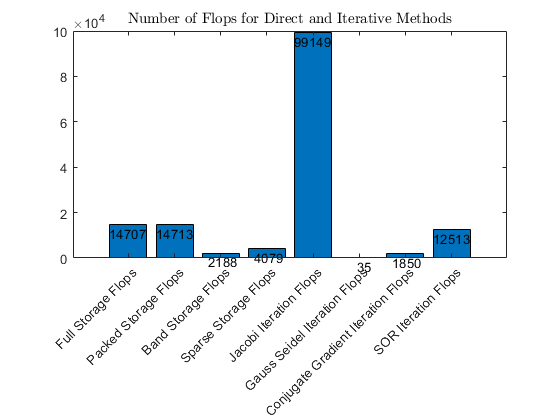
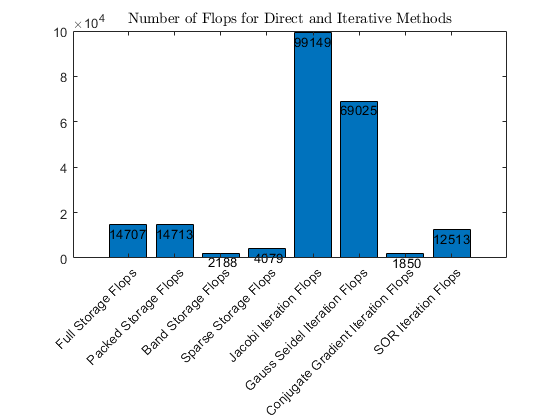
Fixed flops for Gauss Seidel

Changed region(s): [[0.6071, 0.2167, 0.6982, 0.65]]

diff --git a/Report/Report.tex b/Report/Report.tex
@@ -317,7 +317,7 @@ This vector will be the approximate final temperatures at the discrete points al
 A packed storage is a linear direct method when we store an non-zero elements of matrix A in one vector. The storage operation can be acted by using row or even the column.A matrix must be Cholesky factorisation. Since A is symmetric and definite we can reduce the size of matrix A  to be stored. There is technique called mapping which is the key of convert a matrix A(i,j) of two dimensions to be vector b (( one dimension)). Applying mapping  technique on Cholesky algorithm to become Cholesky packed storage algorithm.The mapping conversation is A(i,j) $\to$ a(i+j(j-1)/2). 
 
 \subsection{Band Storage}
-A banded system is a matrix where all non-zero elements are within a certain distance of the main diagonal (which depends on the matrix). The matrix looked at previously is a banded system, however, it is not ordered in an efficient manner, as the fill-in is unnecessarily increased due to the number of 0-diagonals between the inner tridiagonal and the outer diagonals. \\\\Using a technique called RCM ordering, the empty space between the outer and inner diagonals can be greatly reduced. The b vector is also reordered using the same reordering vector to keep the equation $Ax=b$ equivalent. The reordered A matrix using RCM ordering and the banded matrix B will look like
+A banded system is a matrix where all non-zero elements are within a certain distance of the main diagonal (which depends on the matrix). The matrix looked at previously is a banded system, however, it is not ordered in an efficient manner, as the fill-in is unnecessarily increased due to the number of 0-diagonals between the inner tridiagonal and the outer diagonals. \\\\Using a technique called RCM ordering, the average bandwidth can be reduced, along with the level of fill in when Cholesky factorisation is performed. The b vector is also reordered using the same reordering vector to keep the equation $Ax=b$ equivalent. The reordered A matrix using RCM ordering and the banded matrix B will look like
 \begin{figure}[H]
 	\hspace{-8mm}
 	\begin{subfigure}[b]{0.79\textwidth}
@@ -338,7 +338,8 @@ To perform Cholesky factorisation on this matrix, and keeping the factorised mat
 The new algorithm must now check that the index $j-i+1$ is within the width of the matrix, as the column is less than the row count, and trying to access $A(i,j-i+1)$ would result in an error if $j-i+1$ was greater than the number of columns. In the original matrix, these values would have just been 0, and no change would happen.\\\\Performing the Banded Cholesky algorithm on the banded matrix yields\\\includegraphics{images/cholband.png}\\
 To use this factorised matrix, a new forward and backward method must be constructed. Luckily, the previous mapping can still be used. Care must be taken when working in a non-square matrix in both forward and backward substitution, as it is still possible to access elements outside of the new array. Adding checks before accessing the array to make sure the given index is within the bounds of the array solves the problem, as any element outside of the array would just be zero, and performing no operation results in the same outcome. The mapping is also substituted into the forward and backward substitution algorithms.\\\\Solving the system of equations using the new forward and backward substitution, the following heatmap of the component is obtained.\\\includegraphics{images/bandsolution.png}
 \subsection{Sparse Storage}
-A sparse system is a matrix that has no structure to where the non-zero elements appear, but still has a large number of zero values. Using AMD ordering, 
+A sparse system is a matrix that has no structure to where the non-zero elements appear, but still has a large number of zero values. To premtively reduce the fill-in from the Cholesky factorisation, Approximate Minimum Degree (AMD) is used to reorder the A matrix. An AMD permutation will change the ordering of the matrix such that it has when Cholesky factorisation is performed, many of the zero values will stay zero. This reduces storage space when the new factorised matrix is stored using sparse storage, and can reduce runtime when implemented properly. In this case, sparse storage was only used to demonstrate storage benefits.\\\\Using matlab's inbuilt AMD function, the following matrix is obtained\\\includegraphics{images/A_SPARSE.png}\\This can be stored in sparse storage using 
+
 \subsection{Compressed Sparse Row Format Storage}
 \textbf{Compressed sparse row format} (CSR), stores all the non-zero elements that are in a given matrix and it's respected row and column indices of these non-zero elements. CSR consists of three arrays: \textbf{rb} which stores the index of where each new row begins in both \textbf{c} and \textbf{v}; \textbf{c} which consists of the column indices; and \textbf{v} which contains the value of these elements. $\textbf{rb}$ ends with $nz + 1$, where $nz$ is the total number of non-zero elements in $A$.
 \\\\

diff --git a/MATLAB/gauss_seidel_CSR.m b/MATLAB/gauss_seidel_CSR.m
@@ -29,7 +29,7 @@ while res > tol && k < maxiters
         flops = flops + 1;
     end
     k = k + 1;
-    [A_x, flops] = multiAx(v, rb, c, x, current_flops);
+    [A_x, flops] = multiAx(v, rb, c, x, flops);
     res = norm(b - A_x) / normb;
     res_total(k + 1) = res;
     flops = flops + 2;
